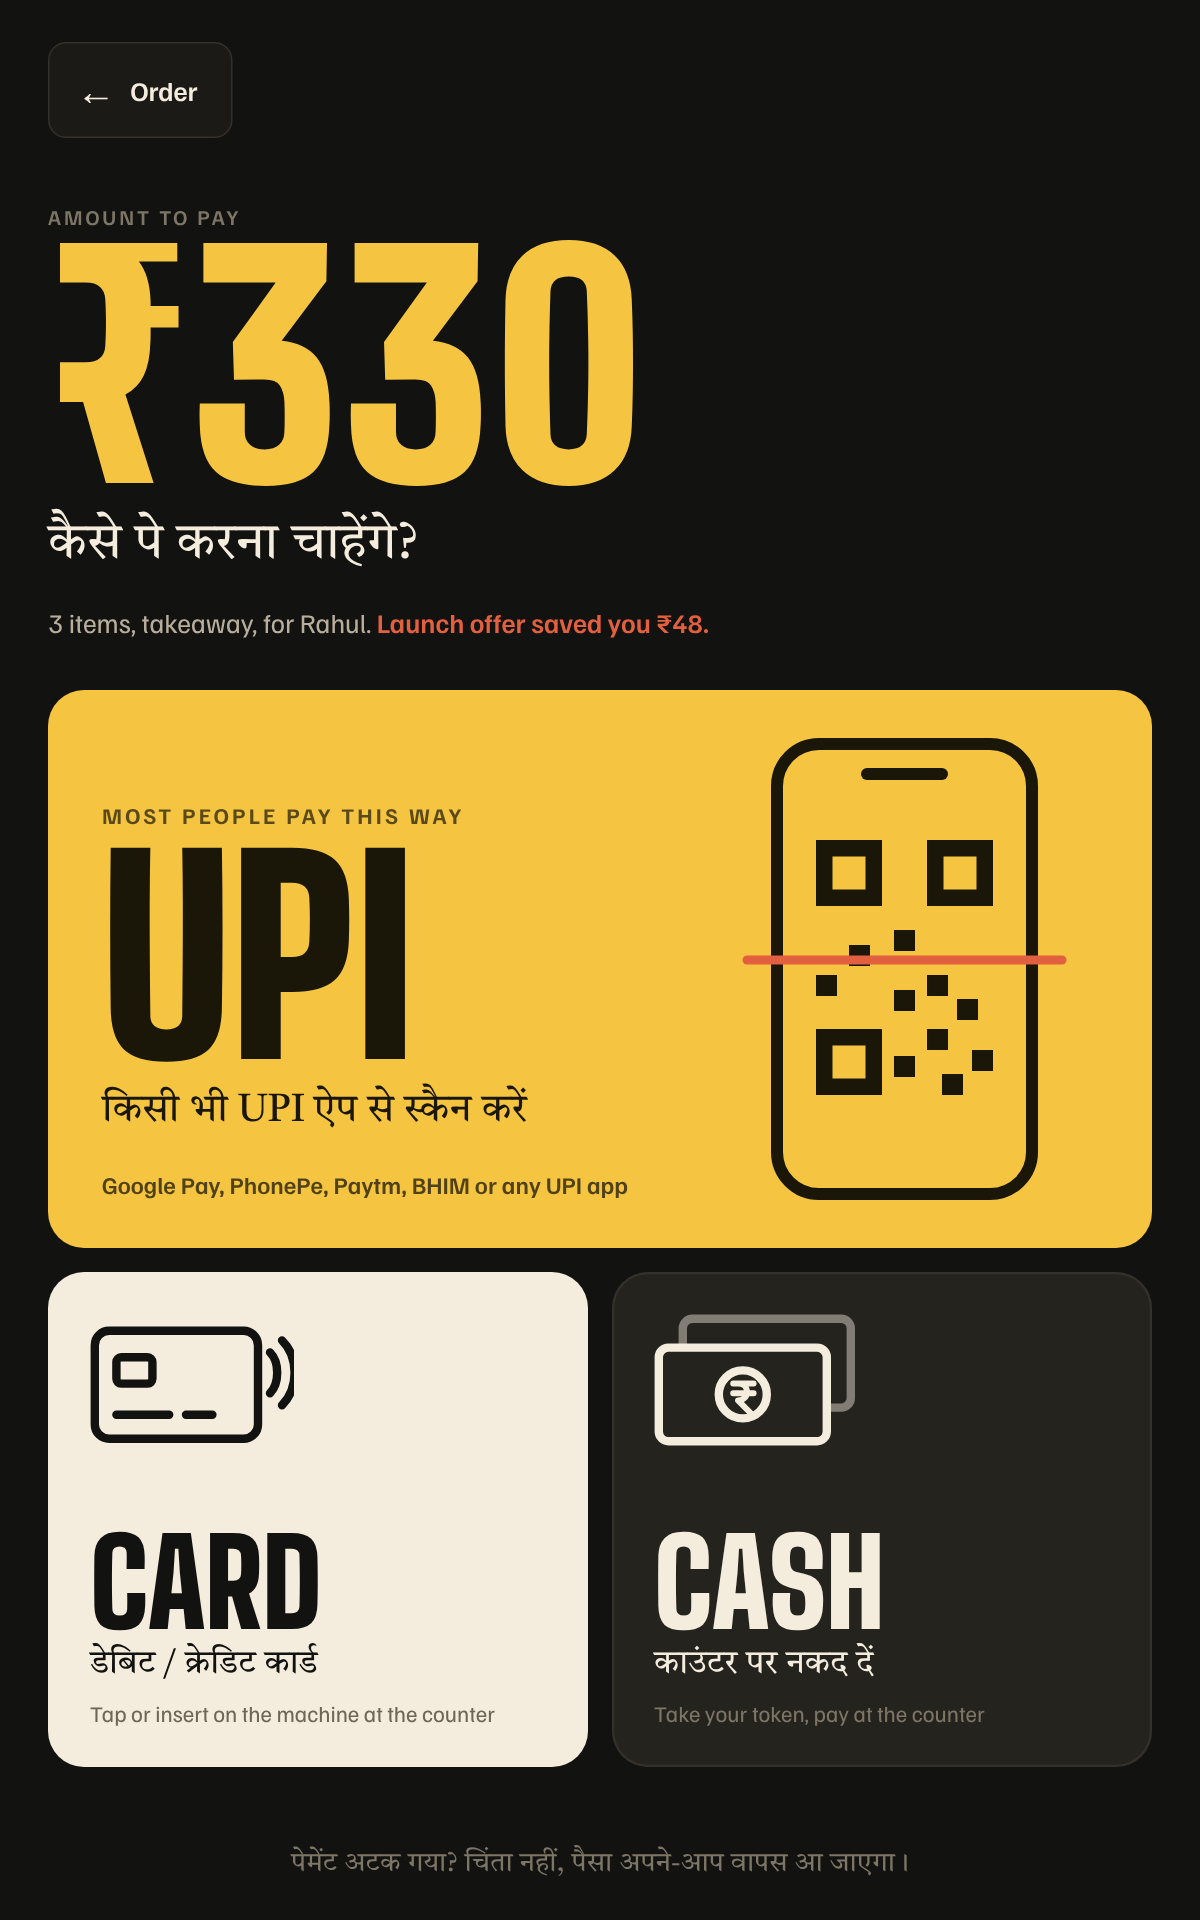
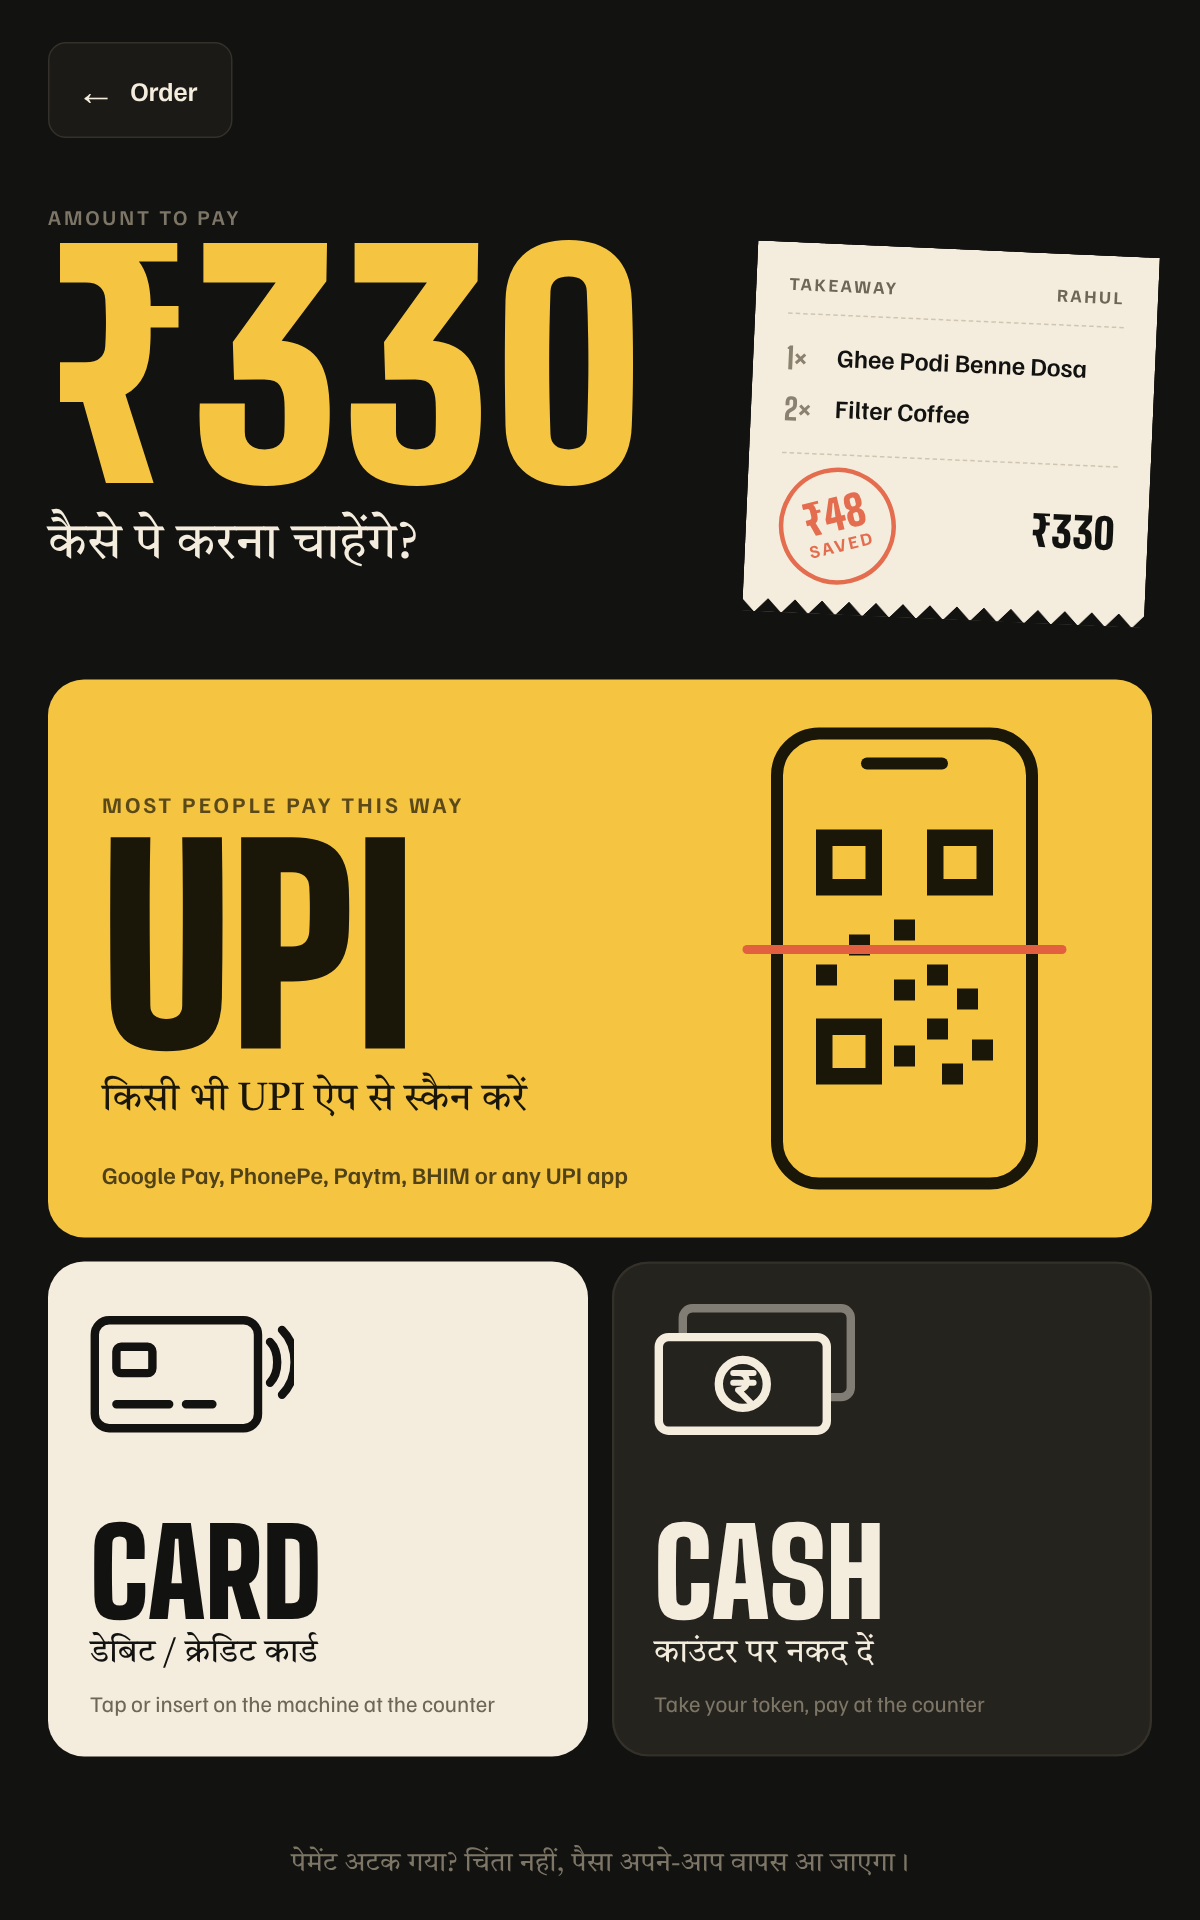
Show order summary on payment screen as a torn paper slip
Replaces the plain summary sentence with a receipt slip and a savings
stamp, matching the token-and-ticket language of the brand.

Claude-Session: https://claude.ai/code/session_01Dbfu4PDT3Rbs4kfZJUwCve

diff --git a/prototype/kiosk-pay.html b/prototype/kiosk-pay.html
@@ -10,7 +10,17 @@
   .back{align-self:flex-start;height:64px;padding:0 22px 0 18px;border-radius:12px;border:1.5px solid var(--line);background:var(--s1);color:var(--cream);font-size:18px;font-weight:600;display:flex;align-items:center;gap:10px}
   .back span{font-size:26px;line-height:1}
 
-  .amount{margin:44px 0 0}
+  .head{display:flex;justify-content:space-between;align-items:flex-start;margin:44px 0 40px}
+  .amount{margin:0}
+  .slip{margin-top:30px;width:268px;background:var(--cream);color:var(--bg);padding:20px 22px 30px;position:relative;transform:rotate(2.5deg);
+    -webkit-mask:conic-gradient(from -45deg at bottom,#0000,#000 1deg 89deg,#0000 90deg) 50%/18px 100%;mask:conic-gradient(from -45deg at bottom,#0000,#000 1deg 89deg,#0000 90deg) 50%/18px 100%}
+  .slip .sh{display:flex;justify-content:space-between;font-size:12px;font-weight:700;letter-spacing:.14em;text-transform:uppercase;color:#6E6757;padding-bottom:12px;border-bottom:1.5px dashed #CFC5B2;margin-bottom:12px}
+  .slip .li{font-size:17px;font-weight:600;padding:5px 0;display:flex;gap:10px}
+  .slip .li b{font-family:var(--display);font-weight:800;font-size:20px;color:#8A8170;min-width:24px}
+  .slip .sf{display:flex;justify-content:space-between;align-items:center;margin-top:12px;padding-top:12px;border-top:1.5px dashed #CFC5B2;font-size:13px;color:#6E6757;font-weight:600;letter-spacing:.06em;text-transform:uppercase}
+  .slip .sf span:last-child{font-family:var(--display);font-weight:900;font-size:28px;color:var(--bg);letter-spacing:0}
+  .stamp{width:78px;height:78px;margin:-4px 0 -10px;border-radius:50%;border:3px solid var(--chilli);color:var(--chilli);display:flex;flex-direction:column;align-items:center;justify-content:center;transform:rotate(-16deg);font-size:12px;font-weight:700;letter-spacing:.14em;text-transform:uppercase;opacity:.9}
+  .stamp b{font-family:var(--display);font-weight:900;font-size:28px;letter-spacing:0;line-height:.9}
   .amount .eyebrow{font-size:14px}
   .amount b{display:block;font-family:var(--display);font-weight:900;font-size:200px;line-height:.82;color:var(--benne);margin-top:10px}
   .amount .hi{font-size:34px;margin-top:14px}
@@ -47,12 +57,19 @@
 <div class="screen">
   <button class="back"><span>←</span>Order</button>
 
-  <div class="amount">
-    <div class="eyebrow">Amount to pay</div>
-    <b>₹330</b>
-    <div class="hi">कैसे पे करना चाहेंगे?</div>
+  <div class="head">
+    <div class="amount">
+      <div class="eyebrow">Amount to pay</div>
+      <b>₹330</b>
+      <div class="hi">कैसे पे करना चाहेंगे?</div>
+    </div>
+    <div class="slip">
+      <div class="sh"><span>Takeaway</span><span>Rahul</span></div>
+      <div class="li"><b>1×</b>Ghee Podi Benne Dosa</div>
+      <div class="li"><b>2×</b>Filter Coffee</div>
+      <div class="sf"><div class="stamp"><b>₹48</b>saved</div><span>₹330</span></div>
+    </div>
   </div>
-  <div class="meta">3 items, takeaway, for Rahul. <em>Launch offer saved you ₹48.</em></div>
 
   <button class="tile upi">
     <span class="lead">Most people pay this way</span>
